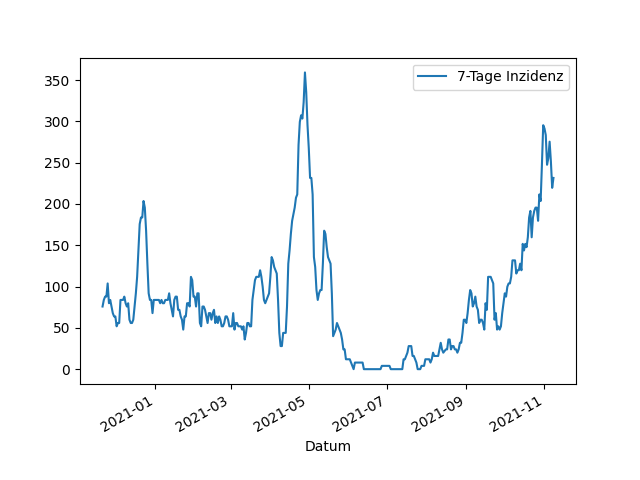
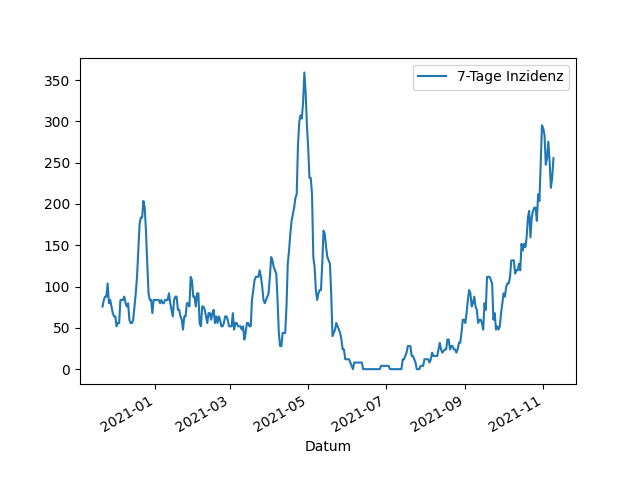
Update images

diff --git a/_includes/aktuelle_inzidenz.md b/_includes/aktuelle_inzidenz.md
@@ -1,1 +1,1 @@
-231,5
+255,5
